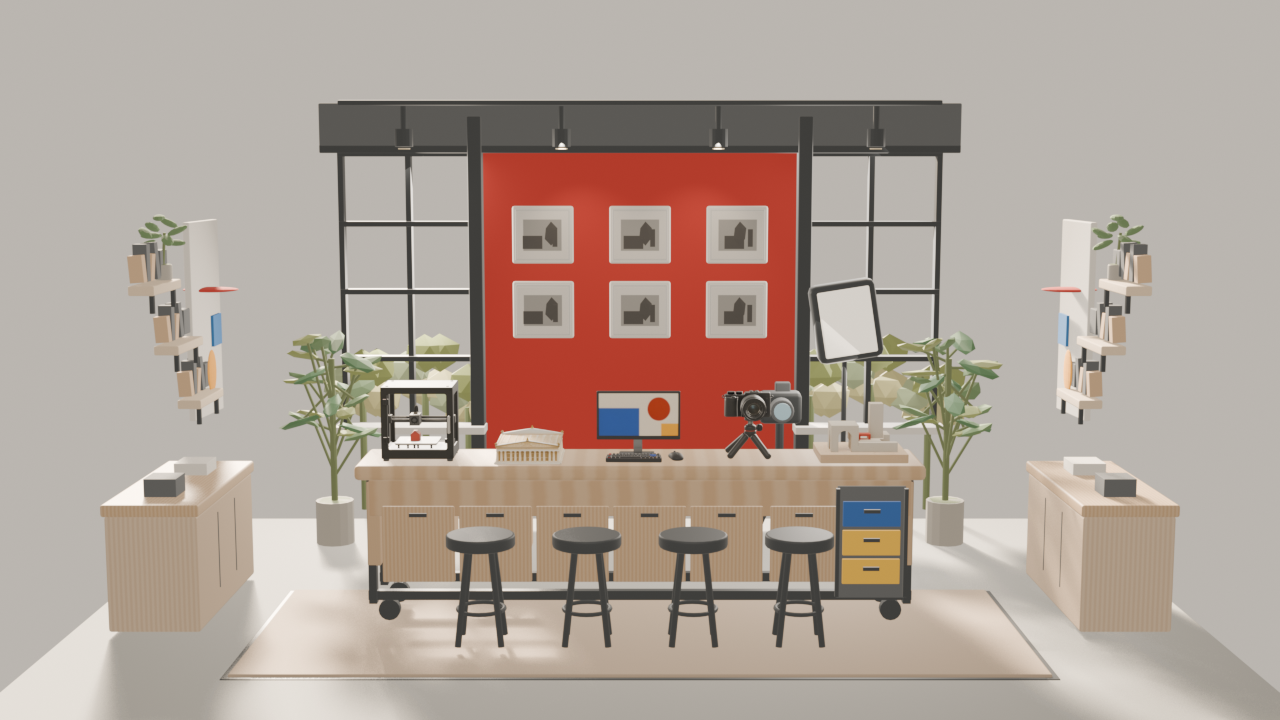
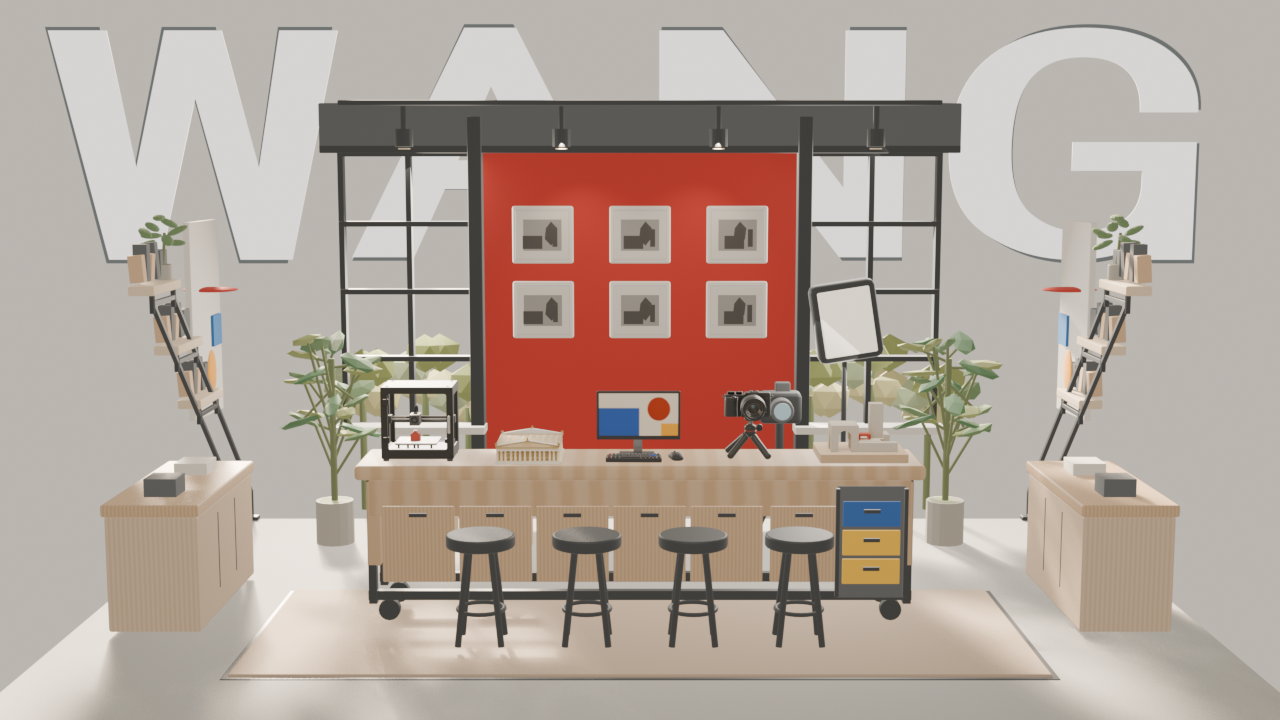
Update Site source

diff --git a/src/scene.js b/src/scene.js
@@ -13,7 +13,9 @@ const reduceMotion = window.matchMedia('(prefers-reduced-motion: reduce)').match
 
 export function createStudio({ canvas, onLoaded, onProgress, onError, onSelect, onHover, onReset }) {
   const scene = new THREE.Scene();
-  scene.fog = new THREE.Fog(0xe5e8dd, 48, 142);
+  const backdrop = new THREE.Color('#bab6b0');
+  scene.background = backdrop;
+  scene.fog = new THREE.Fog(backdrop, 48, 142);
   const camera = new THREE.PerspectiveCamera(38, 1, 0.1, 700);
   const homePosition = new THREE.Vector3(0, 9.7, 27.5);
   const homeTarget = new THREE.Vector3(0, 3.55, 0);
@@ -41,9 +43,6 @@ export function createStudio({ canvas, onLoaded, onProgress, onError, onSelect, 
   const softFill = new THREE.DirectionalLight(0xf0f4e8, 0.42);
   softFill.position.set(8, 5, 2);
   scene.add(softFill);
-
-  createSky(scene);
-  createMeadow(scene);
 
   const controls = new OrbitControls(camera, canvas);
   controls.target.copy(homeTarget);
@@ -367,224 +366,5 @@ export function createStudio({ canvas, onLoaded, onProgress, onError, onSelect, 
         }
       });
     },
-  };
-}
-
-function createSky(scene) {
-  const geometry = new THREE.SphereGeometry(420, 48, 32);
-  const material = new THREE.ShaderMaterial({
-    side: THREE.BackSide,
-    depthWrite: false,
-    vertexShader: `varying vec3 vSkyDirection; void main(){ vec4 world = modelMatrix * vec4(position,1.0); vSkyDirection = normalize(world.xyz - cameraPosition); gl_Position = projectionMatrix * viewMatrix * world; }`,
-    fragmentShader: `
-      varying vec3 vSkyDirection;
-      float cloudPuff(vec2 point, vec2 center, vec2 radius) {
-        vec2 q = (point - center) / radius;
-        return exp(-dot(q, q) * 2.2);
-      }
-      float cloudCluster(vec2 point, float x, float y) {
-        float mass = cloudPuff(point, vec2(x, y - 0.008), vec2(0.085, 0.019));
-        mass += cloudPuff(point, vec2(x - 0.045, y + 0.006), vec2(0.043, 0.028));
-        mass += cloudPuff(point, vec2(x - 0.012, y + 0.026), vec2(0.047, 0.037));
-        mass += cloudPuff(point, vec2(x + 0.034, y + 0.018), vec2(0.046, 0.032));
-        mass += cloudPuff(point, vec2(x + 0.071, y + 0.004), vec2(0.035, 0.023));
-        return smoothstep(1.18, 1.58, mass);
-      }
-      void main() {
-        vec3 d = normalize(vSkyDirection);
-        float elevation = asin(clamp(d.y, -1.0, 1.0));
-        float azimuth = atan(d.x, -d.z);
-        float h = smoothstep(-0.055, 0.19, d.y);
-        vec3 horizon = vec3(1.00, 0.91, 0.77);
-        vec3 zenith = vec3(0.29, 0.57, 0.89);
-        vec3 color = mix(horizon, zenith, h);
-        vec2 skyPoint = vec2(azimuth, elevation);
-        float clouds = max(max(cloudCluster(skyPoint, -0.46, 0.078), cloudCluster(skyPoint, -0.23, 0.092)), max(cloudCluster(skyPoint, 0.02, 0.076), max(cloudCluster(skyPoint, 0.27, 0.094), cloudCluster(skyPoint, 0.49, 0.078))));
-        vec3 cloudColor = mix(vec3(0.90, 0.86, 0.78), vec3(1.0, 0.99, 0.96), smoothstep(0.015, 0.055, elevation));
-        color = mix(color, cloudColor, clouds * 0.98);
-        vec3 sunDirection = normalize(vec3(-0.28, 0.055, -0.96));
-        float sunDot = max(dot(d, sunDirection), 0.0);
-        float sunDisk = smoothstep(0.99945, 0.99978, sunDot);
-        float sunHalo = pow(sunDot, 24.0) * 0.18 + pow(sunDot, 72.0) * 0.26;
-        color = mix(color, vec3(1.0, 0.97, 0.86), sunDisk);
-        color += vec3(0.12, 0.09, 0.05) * sunHalo;
-        gl_FragColor = vec4(color, 1.0);
-        #include <tonemapping_fragment>
-        #include <colorspace_fragment>
-      }`,
-  });
-  const sky = new THREE.Mesh(geometry, material);
-  sky.renderOrder = -2;
-  sky.frustumCulled = false;
-  scene.add(sky);
-}
-
-function createMeadow(scene) {
-  const segments = 126;
-  const geometry = new THREE.PlaneGeometry(320, 320, segments, segments);
-  geometry.rotateX(-Math.PI / 2);
-  const positions = geometry.attributes.position;
-  const colors = new Float32Array(positions.count * 3);
-  const palettes = [new THREE.Color('#506d47'), new THREE.Color('#8a965e')];
-  const finePalettes = [new THREE.Color('#637a4b'), new THREE.Color('#82905a')];
-  for (let i = 0; i < positions.count; i += 1) {
-    const x = positions.getX(i);
-    const z = positions.getZ(i);
-    const broad = valueNoise(x * 0.28, z * 0.28);
-    const fine = valueNoise(x * 0.9, z * 0.9);
-    const tone = THREE.MathUtils.clamp(0.39 + broad * 0.42 + fine * 0.19, 0, 1);
-    const base = palettes[0].clone().lerp(palettes[1], tone);
-    const tint = finePalettes[0].clone().lerp(finePalettes[1], fine);
-    base.lerp(tint, 0.16);
-    colors[i * 3] = base.r;
-    colors[i * 3 + 1] = base.g;
-    colors[i * 3 + 2] = base.b;
-  }
-  geometry.setAttribute('color', new THREE.BufferAttribute(colors, 3));
-  const ground = new THREE.Mesh(geometry, new THREE.MeshStandardMaterial({ vertexColors: true, roughness: 0.98, metalness: 0 }));
-  ground.position.y = -0.39;
-  ground.frustumCulled = false;
-  ground.receiveShadow = false;
-  scene.add(ground);
-  createGrassBlades(scene);
-  createWildflowers(scene);
-}
-
-function valueNoise(x, z) {
-  const ix = Math.floor(x); const iz = Math.floor(z);
-  const fx0 = x - ix; const fz0 = z - iz;
-  const fx = fx0 * fx0 * (3 - 2 * fx0); const fz = fz0 * fz0 * (3 - 2 * fz0);
-  const a = noiseHash(ix, iz); const b = noiseHash(ix + 1, iz);
-  const c = noiseHash(ix, iz + 1); const d = noiseHash(ix + 1, iz + 1);
-  return THREE.MathUtils.lerp(THREE.MathUtils.lerp(a, b, fx), THREE.MathUtils.lerp(c, d, fx), fz);
-}
-
-function noiseHash(x, z) {
-  const value = Math.sin(x * 127.1 + z * 311.7) * 43758.5453123;
-  return value - Math.floor(value);
-}
-
-function createGrassBlades(scene) {
-  const vertices = new Float32Array([
-    0, 0, 0, -0.045, 0.12, 0, 0.035, 0.34, 0,
-    0, 0, 0, 0.045, 0.14, 0, -0.035, 0.25, 0,
-    0, 0, 0, 0, 0.11, -0.045, 0, 0.29, 0.04,
-  ]);
-  const bladeGeometry = new THREE.BufferGeometry();
-  bladeGeometry.setAttribute('position', new THREE.BufferAttribute(vertices, 3));
-  bladeGeometry.computeVertexNormals();
-  const material = new THREE.MeshStandardMaterial({ color: 0xffffff, vertexColors: false, side: THREE.DoubleSide, roughness: 1, metalness: 0 });
-  const count = 3900;
-  const blades = new THREE.InstancedMesh(bladeGeometry, material, count);
-  blades.instanceMatrix.setUsage(THREE.StaticDrawUsage);
-  blades.castShadow = false;
-  blades.receiveShadow = false;
-  const random = seededRandom(91273);
-  const dummy = new THREE.Object3D();
-  let inserted = 0;
-  for (let i = 0; i < count * 2 && inserted < count; i += 1) {
-    const x = (random() - 0.5) * 88;
-    const z = (random() - 0.5) * 88;
-    if (Math.abs(x) < 9.25 && Math.abs(z) < 7.05) continue;
-    const height = 0.55 + random() * 0.75;
-    const width = 0.6 + random() * 0.65;
-    dummy.position.set(x, -0.388, z);
-    dummy.rotation.y = random() * Math.PI;
-    dummy.scale.set(width, height, width);
-    dummy.updateMatrix();
-    blades.setMatrixAt(inserted, dummy.matrix);
-    const shade = 0.76 + random() * 0.36;
-    blades.setColorAt(inserted, new THREE.Color().setRGB(0.46 * shade, 0.66 * shade, 0.35 * shade));
-    inserted += 1;
-  }
-  blades.count = inserted;
-  blades.instanceMatrix.needsUpdate = true;
-  if (blades.instanceColor) blades.instanceColor.needsUpdate = true;
-  blades.computeBoundingSphere();
-  scene.add(blades);
-}
-
-function createWildflowers(scene) {
-  const patchCount = 15;
-  const flowers = [];
-  const random = seededRandom(62481);
-  const petalColors = ['#f58bb5', '#f8a2c2', '#ee79a7', '#ffc0d5'].map((color) => new THREE.Color(color));
-  const centerColor = new THREE.Color('#f4c66e');
-  const stemColor = new THREE.Color('#6f9259');
-
-  for (let patch = 0; patch < patchCount; patch += 1) {
-    const foreground = patch < 5;
-    const side = random() < 0.5 ? -1 : 1;
-    const patchX = foreground ? (random() - 0.5) * 14 : side * (16.5 + random() * 7);
-    const patchZ = foreground ? 8 + random() * 4 : -32 + random() * 19;
-    const patchFlowers = foreground ? 4 + Math.floor(random() * 3) : 4 + Math.floor(random() * 4);
-    for (let i = 0; i < patchFlowers; i += 1) {
-      const spread = foreground ? 1.4 : 2.2;
-      const x = patchX + (random() + random() + random() - 1.5) * spread;
-      const z = patchZ + (random() + random() + random() - 1.5) * spread;
-      flowers.push({
-        x,
-        z,
-        stemHeight: 0.48 + random() * 0.29,
-        angle: random() * Math.PI * 2,
-        petalColor: petalColors[Math.floor(random() * petalColors.length)],
-      });
-    }
-  }
-
-  if (flowers.length === 0) return;
-  const petalGeometry = new THREE.SphereGeometry(1, 8, 6);
-  const petalMaterial = new THREE.MeshStandardMaterial({ color: 0xffffff, roughness: 0.84, metalness: 0 });
-  const petals = new THREE.InstancedMesh(petalGeometry, petalMaterial, flowers.length * 5);
-  const centerGeometry = new THREE.SphereGeometry(1, 7, 5);
-  const centers = new THREE.InstancedMesh(centerGeometry, new THREE.MeshStandardMaterial({ color: centerColor, roughness: 0.78 }), flowers.length);
-  const stemGeometry = new THREE.CylinderGeometry(0.007, 0.011, 1, 5);
-  const stems = new THREE.InstancedMesh(stemGeometry, new THREE.MeshStandardMaterial({ color: stemColor, roughness: 0.92 }), flowers.length);
-  const dummy = new THREE.Object3D();
-  const headY = (flower) => -0.39 + flower.stemHeight;
-
-  flowers.forEach((flower, index) => {
-    const y = headY(flower);
-    for (let petal = 0; petal < 5; petal += 1) {
-      const angle = flower.angle + (petal / 5) * Math.PI * 2;
-      dummy.position.set(flower.x + Math.cos(angle) * 0.043, y + Math.sin(angle) * 0.043, flower.z + 0.012);
-      dummy.rotation.set(0, 0, angle);
-      dummy.scale.set(0.056, 0.039, 0.014);
-      dummy.updateMatrix();
-      const instance = index * 5 + petal;
-      petals.setMatrixAt(instance, dummy.matrix);
-      petals.setColorAt(instance, flower.petalColor);
-    }
-
-    dummy.position.set(flower.x, y, flower.z + 0.028);
-    dummy.rotation.set(0, 0, 0);
-    dummy.scale.set(0.018, 0.018, 0.01);
-    dummy.updateMatrix();
-    centers.setMatrixAt(index, dummy.matrix);
-
-    dummy.position.set(flower.x, -0.39 + flower.stemHeight / 2, flower.z);
-    dummy.scale.set(1, flower.stemHeight, 1);
-    dummy.updateMatrix();
-    stems.setMatrixAt(index, dummy.matrix);
-  });
-
-  petals.instanceMatrix.needsUpdate = true;
-  if (petals.instanceColor) petals.instanceColor.needsUpdate = true;
-  centers.instanceMatrix.needsUpdate = true;
-  stems.instanceMatrix.needsUpdate = true;
-  petals.computeBoundingSphere();
-  centers.computeBoundingSphere();
-  stems.computeBoundingSphere();
-  scene.add(stems, petals, centers);
-}
-
-function seededRandom(seed) {
-  let value = seed >>> 0;
-  return () => {
-    value += 0x6d2b79f5;
-    let next = value;
-    next = Math.imul(next ^ (next >>> 15), next | 1);
-    next ^= next + Math.imul(next ^ (next >>> 7), next | 61);
-    return ((next ^ (next >>> 14)) >>> 0) / 4294967296;
   };
 }

diff --git a/src/styles.css b/src/styles.css
@@ -1,7 +1,7 @@
 :root {
   font-family: 'Microsoft YaHei', 'Noto Sans SC', system-ui, sans-serif;
   color: #24322b;
-  background: #e4e9dd;
+  background: #bab6b0;
   font-synthesis: none;
   text-rendering: optimizeLegibility;
   -webkit-font-smoothing: antialiased;
@@ -22,8 +22,8 @@ button, a { color: inherit; font: inherit; }
 button { -webkit-tap-highlight-color: transparent; }
 button:focus-visible, a:focus-visible, canvas:focus-visible { outline: 2px solid #a53b2c; outline-offset: 3px; }
 
-.world { position: relative; isolation: isolate; width: 100%; height: 100%; overflow: hidden; background: linear-gradient(180deg, #dcebf0 0%, #e3ebdf 53%, #889a63 100%); }
-.world::after { position: absolute; z-index: -1; right: -14vw; bottom: -37vh; width: 80vw; height: 65vh; border-radius: 50%; background: rgba(246, 237, 207, 0.25); filter: blur(74px); content: ''; pointer-events: none; }
+.world { position: relative; isolation: isolate; width: 100%; height: 100%; overflow: hidden; background: #bab6b0; }
+.world::after { display: none; }
 #studio-canvas { position: absolute; inset: 0; display: block; width: 100%; height: 100%; cursor: grab; touch-action: none; }
 #studio-canvas:active { cursor: grabbing; }
 .work-tooltip { position: absolute; z-index: 2; top: 0; left: 0; display: flex; min-width: 170px; align-items: center; gap: 9px; padding: 8px 10px; border: 1px solid rgba(53, 71, 55, .16); border-radius: 14px; background: rgba(250, 248, 239, .94); box-shadow: 0 9px 26px rgba(38, 53, 42, .14); opacity: 0; visibility: hidden; transform: translate3d(var(--tooltip-x, 0), var(--tooltip-y, 0), 0) translate(9px, 9px) scale(.98); transition: opacity .16s ease, transform .16s ease, visibility .16s; backdrop-filter: blur(13px); pointer-events: none; }
@@ -35,7 +35,7 @@ button:focus-visible, a:focus-visible, canvas:focus-visible { outline: 2px solid
 .tooltip-enter { margin-left: auto; color: #92998e; font-family: Consolas, monospace; font-size: 13px; }
 .scene-poster { position: absolute; inset: 0; width: 100%; height: 100%; object-fit: cover; object-position: center 53%; transition: opacity .75s ease; }
 .scene-poster.hidden { opacity: 0; }
-.world-wash { position: absolute; z-index: 1; inset: 0; pointer-events: none; background: linear-gradient(180deg, rgba(248, 248, 239, .035) 0%, transparent 22%, transparent 72%, rgba(54, 71, 49, .08) 100%); }
+.world-wash { position: absolute; z-index: 1; inset: 0; pointer-events: none; background: linear-gradient(180deg, rgba(255, 252, 246, .06), transparent 34%); }
 
 .masthead { position: absolute; z-index: 3; top: max(22px, env(safe-area-inset-top)); right: max(28px, env(safe-area-inset-right)); left: max(28px, env(safe-area-inset-left)); display: flex; align-items: center; justify-content: space-between; pointer-events: none; }
 .brand, .masthead-tools { pointer-events: auto; }
